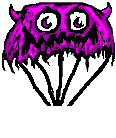
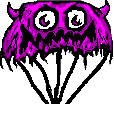
🩹 trim sprites and landing pad collision box

diff --git a/src/game.ts b/src/game.ts
@@ -108,7 +108,7 @@ export default class Game extends Phaser.Scene {
 		);
 
 		this.pad.body.immovable = true;
-		this.pad.body.setSize(this.pad.width, this.pad.height, true);
+		this.pad.body.setSize(this.pad.width, this.pad.height - 10, true);
 		this.physics.add.collider(
 			this.pad,
 			this.dropGroup,
@@ -239,6 +239,11 @@ export default class Game extends Phaser.Scene {
 		avatar.swayTween?.stop();
 		avatar.swayTween = null;
 		avatar.score = score;
+		avatar.container.setY(
+			this.game.scale.gameSize.height -
+				this.pad!.body!.height -
+				avatar.sprite.height / 2,
+		);
 		drop.body.enable = false;
 		this.dropGroup!.remove(drop);
 		avatar.active = false;
